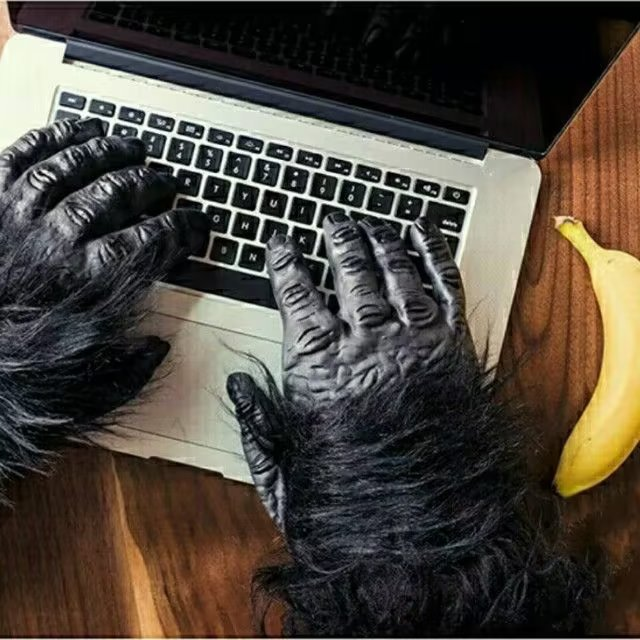
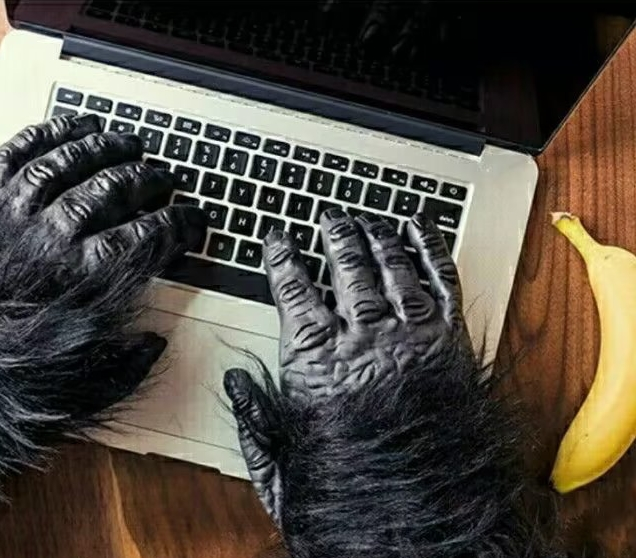
修改主页图片尺寸

diff --git a/README.md b/README.md
@@ -5,7 +5,7 @@
 **I'm zredMonkey, a front-end development engineer**
 
 <p align="center">
-  <img align="center" src="https://github.com/zredMonkey/zredMonkey/blob/master/monkey.jpg"/>
+  <img align="center" src="https://github.com/zredMonkey/zredMonkey/blob/master/monkey.jpg" style="max-width: 50%;"/>
 </p>
 
 <!--
